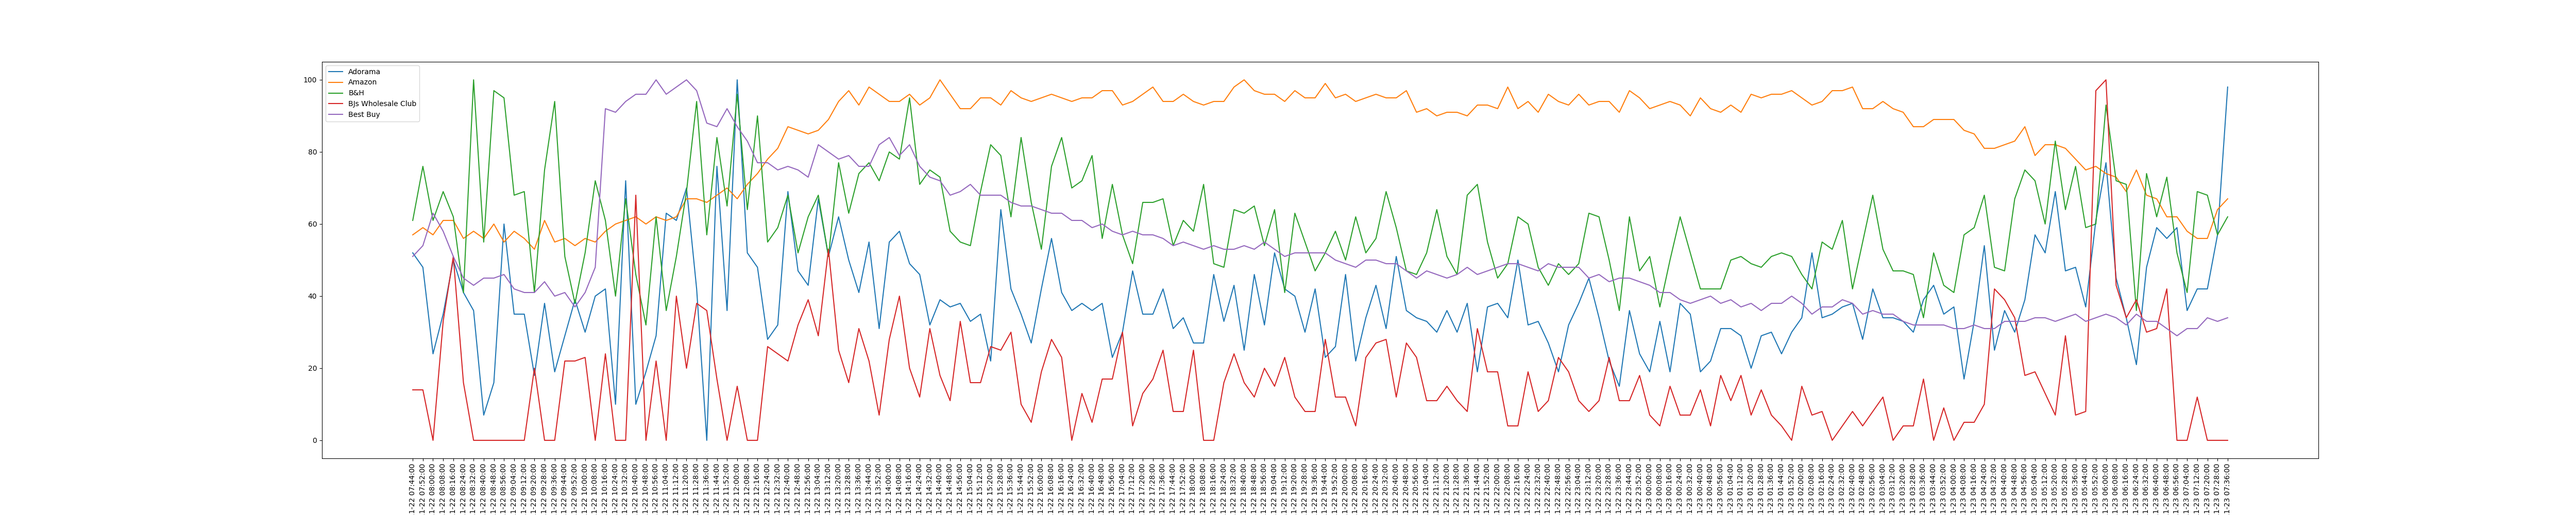
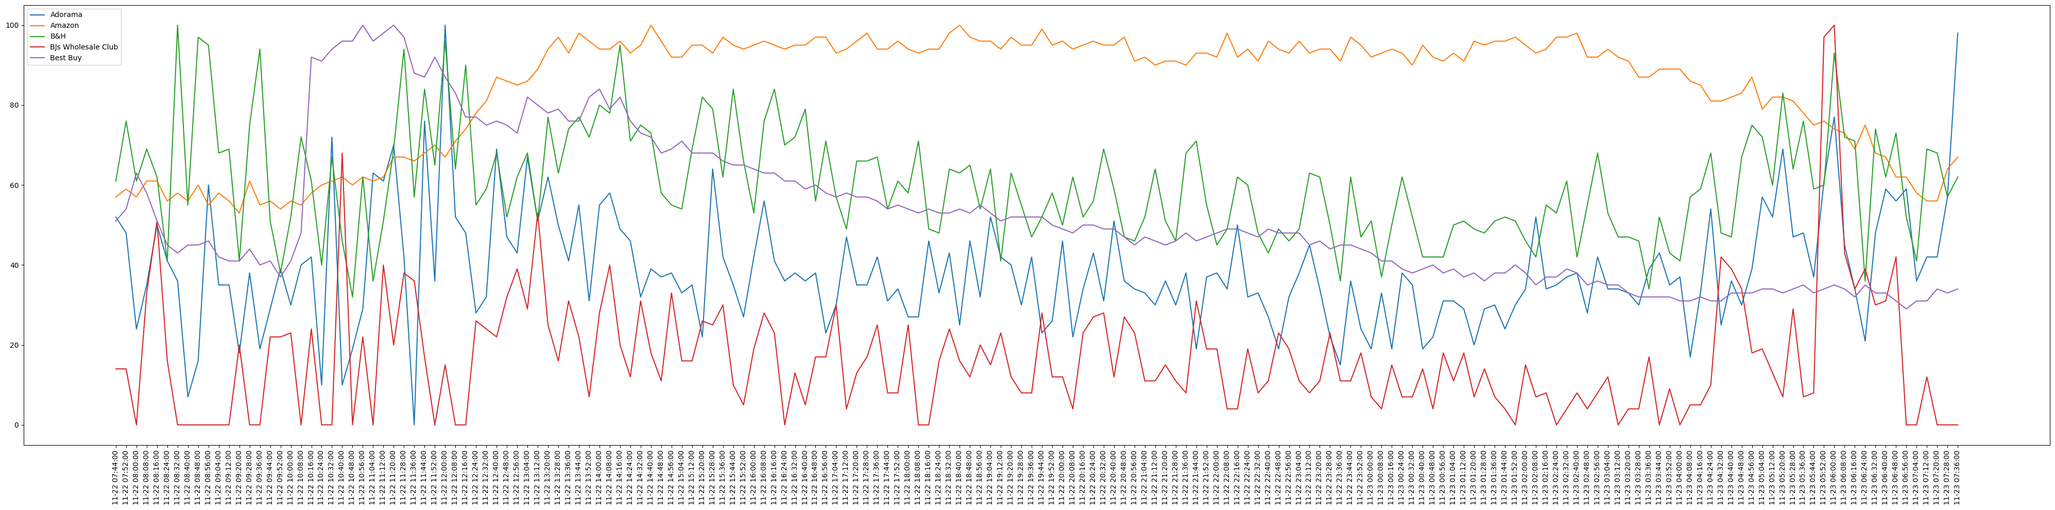
added background, adjusted layout

diff --git a/templates/display.html b/templates/display.html
@@ -7,26 +7,31 @@
 <link rel="stylesheet" href="/static/style.css?1599383373"/>
 </head>
 <body>
+  
   <center>
     <p style="font-size:50px">Today is {{date}}</p>
+    <p style="font-size:50px">Let's visualize 5 trending brands</p>
+  </center>
+  <img src="/static/trend.png" alt="today's trend", style="width:4000px;height:800px;">
+  
+  <center>
     <p style="font-size:50px">What trend can we see in the past day?</p>
   </center>
   <table class="table">
     <tr class="table__header">
       {% for header in headings %}
-      <th class="table__cell", style="text-align:center;font-size:12px">{{ header }}</th>
+      <th class="table__cell", style="text-align:center;font-size:15px">{{ header }}</th>
       {%endfor%}
     </tr>
 
       {% for row in data %}
       <tr class="table__row">
         {% for cell in row%}
-        <td class="table__cell", style="text-align:center;font-size:12px">{{ cell }}</td>
+        <td class="table__cell", style="text-align:center;font-size:15px">{{ cell }}</td>
         {% endfor %}
       </tr>
       {% endfor %}
-
   </table>
-  <img src="/static/trend.png" alt="today's trend">
+
 </body>
 </html>

diff --git a/static/style.css b/static/style.css
@@ -1,3 +1,11 @@
+body{ 
+  background: url('https://earthbornbeauty.com/product_images/uploaded_images/trends.jpg') no-repeat center center fixed; 
+  -webkit-background-size: cover;
+  -moz-background-size: cover;
+  -o-background-size: cover;
+  background-size: cover;
+}
+
 .table{
     border-spacing: 0;
     margin: 1rem;

diff --git a/application.py b/application.py
@@ -66,11 +66,12 @@ def get_trends(date):
 
 # define a function to plot data
 def plot_trend(data):
-    plt.figure(figsize= (50, 10))
+    plt.figure(figsize= (40, 10))
     plt.plot(data.iloc[:, :5])
     plt.legend(labels = data.columns.values[:5])
     plt.xticks(rotation = 'vertical')
-    plt.savefig('./resources/trend.png')
+    plt.tight_layout()
+    plt.savefig('./static/trend.png', bbox_inches = "tight")
 
 # get today's date
 today = date.today().strftime('%Y-%m-%d')
@@ -82,7 +83,6 @@ if today in dates:
 else:
     headings = ('Brands', 'Time')
     data = ('Not Available Yet', 'Not Available Yet')
-
 
 @application.route("/")
 def table():
